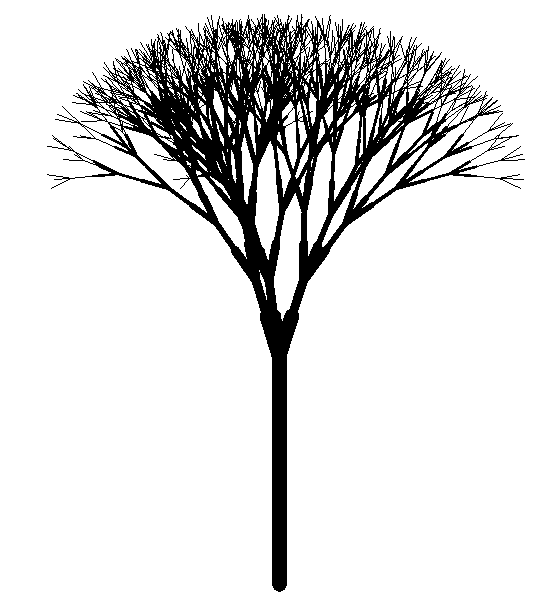
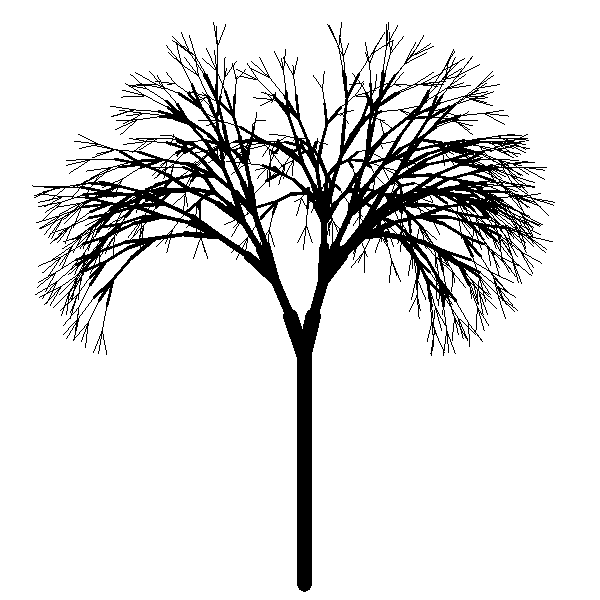
Implement ternary branching and tropism

Changed region(s): [[0.0618, 0.03, 0.9582, 0.6], [0.4945, 0.57, 0.5255, 0.99]]

diff --git a/parameters.py b/parameters.py
@@ -69,6 +69,10 @@ import numpy as np
 # a2 = -30
 # d = 137.5
 # wr = 0.707
+
+# T = None
+# e = 0
+
 # rules = {
 #     "A": lambda l, w: [("!", w), ("F", l), 
 #                        ("["), ("&", a0), ("B", l * r2, w * wr), ("]"),
@@ -103,28 +107,71 @@ import numpy as np
 
 
 
-###### Figure 2.7
-axiom = [("A", 100, 20)]
-r1 = 0.9
-r2 = 0.8
-a1 = 35
-a2 = 35
-wr = 0.707
+# ###### Figure 2.7
+# axiom = [("A", 100, 20)]
+# r1 = 0.9
+# r2 = 0.8
+# a1 = 35
+# a2 = 35
+# wr = 0.707
+# rules = {
+#     "A": lambda l, w: [("!", w), ("F", l), 
+#                        ("["), ("&", a1), ("B", l * r1, w * wr), ("]"),
+#                        ("/", 180), 
+#                        ("["), ("&", a2), ("B", l * r2, w * wr), ("]")],
+#     "B": lambda l, w: [("!", w), ("F", l), 
+#                        ("["), ("+", a1), ("$"), ("B", l * r1, w * wr), ("]"),
+#                        ("["), ("-", a2), ("$"), ("B", l * r2, w * wr), ("]")]
+# }
+# iterations = 10
+# delta = None
+# fileName = "outputs/l_system_tree_3d_Figure_2_7_d"
+
+# initX = 0
+# initY = -270
+# initZ = 0
+
+# imageWidth = 600
+# imageHeight = 600
+
+# penColor = [0, 0, 0]
+# penColorIncrementStep = None
+# penThickness = None
+# penThicknessDecrementStep = None
+# penStep = None
+
+# dimension = 3
+# parametric = True
+# hasLeaf = False
+
+
+
+###### Figure 2.8
+axiom = [("!", 1/2), ("F", 200/2), ("/", 45), ("A")] 
+d1 = 94.74
+d2 = 132.63
+a = 18.95
+lr = 1.109
+vr = 1.732
+T = np.array([0, -1, 0])
+e = 0.22
+
 rules = {
-    "A": lambda l, w: [("!", w), ("F", l), 
-                       ("["), ("&", a1), ("B", l * r1, w * wr), ("]"),
-                       ("/", 180), 
-                       ("["), ("&", a2), ("B", l * r2, w * wr), ("]")],
-    "B": lambda l, w: [("!", w), ("F", l), 
-                       ("["), ("+", a1), ("$"), ("B", l * r1, w * wr), ("]"),
-                       ("["), ("-", a2), ("$"), ("B", l * r2, w * wr), ("]")]
+    "A": lambda : [("!", vr/2), ("F", 50/2), 
+                   ("["), ("&", a), ("F", 50/2), ("A"), ("]"),
+                   ("/", d1),
+                   ("["), ("&", a), ("F", 50/2), ("A"), ("]"),
+                   ("/", d2),
+                   ("["), ("&", a), ("F", 50/2), ("A"), ("]")], 
+    "F": lambda step : [("F", step * lr)],
+    "!": lambda width : [("!", width * vr)]
 }
-iterations = 10
+iterations = 6
 delta = None
-fileName = "outputs/l_system_tree_3d_Figure_2_7_d"
+fileName = "outputs/l_system_tree_3d_Figure_2_8_a"
 
 initX = 0
-initY = -270
+initY = -280
 initZ = 0
 
 imageWidth = 600
@@ -139,43 +186,3 @@ penStep = None
 dimension = 3
 parametric = True
 hasLeaf = False
-
-
-
-# ###### Figure 2.8
-# axiom = [("!", 1/2), ("F", 200/2), ("/", 45/2), ("A")] 
-# d1 = 94.97
-# d2 = 132.63
-# a = 18.95
-# lr = 1.109
-# vr = 1.732
-# rules = {
-#     "A": lambda : [("!", vr/2), ("F", 50/2), 
-#                    ("["), ("&", a), ("F", 50/2), ("A"), ("]"),
-#                    ("/", d1),
-#                    ("["), ("&", a), ("F", 50/2), ("A"), ("]"),
-#                    ("/", d2),
-#                    ("["), ("&", a), ("F", 50/2), ("A"), ("]")], 
-#     "F": lambda step : [("F", step * lr)],
-#     "!": lambda width : [("!", width * vr)]
-# }
-# iterations = 6
-# delta = None
-# fileName = "outputs/l_system_tree_3d_Figure_2_8_a"
-
-# initX = 0
-# initY = -280
-# initZ = 0
-
-# imageWidth = 550
-# imageHeight = 600
-
-# penColor = [0, 0, 0]
-# penColorIncrementStep = None
-# penThickness = None
-# penThicknessDecrementStep = None
-# penStep = None
-
-# dimension = 3
-# parametric = True
-# hasLeaf = False

diff --git a/lsystem.py b/lsystem.py
@@ -86,7 +86,7 @@ class LSystem2D:
                 self.penThickness -= self.penThicknessDecrementStep
         
     def save(self):
-        self.screen.update()
+        # self.screen.update()
         # Convert the PostScript file to PNG
         self.screen.getcanvas().postscript(file=f"{self.saveFilePath}.eps")
         img = Image.open(f"{self.saveFilePath}.eps")
@@ -100,7 +100,7 @@ import networkx as nx
 import numpy as np
 
 class LSystem3D(LSystem2D):
-    def init3D(self, initX, initY, initZ):
+    def init3D(self, initX, initY, initZ, T, e):
         self.G = nx.DiGraph()
 
         # Initialize heading, left, and up directions
@@ -111,6 +111,10 @@ class LSystem3D(LSystem2D):
             ).T
 
         self.G.add_node("root", position=np.array([initX, initY, initZ]))
+
+        # Tropism parameters
+        self.T = T
+        self.e = e
     
     # Set up the roll, pitch, and yaw matrices. 
     # These rotation matrices are relative to the current H, L, U matrices. 
@@ -192,11 +196,11 @@ class LSystem3D(LSystem2D):
         # Draw trunk and branches
         for edge in self.G.edges:
             self.t.penup()
-            self.t.goto(-self.G.nodes[edge[0]]["position"][2], self.G.nodes[edge[0]]["position"][1])
+            self.t.goto(-self.G.nodes[edge[0]]["position"][0], self.G.nodes[edge[0]]["position"][1])
             self.t.pendown()
             self.t.pensize(self.G.edges[edge]["diameter"])
             self.t.pencolor(self.G.edges[edge]["color"])
-            self.t.goto(-self.G.nodes[edge[1]]["position"][2], self.G.nodes[edge[1]]["position"][1])
+            self.t.goto(-self.G.nodes[edge[1]]["position"][0], self.G.nodes[edge[1]]["position"][1])
         
         if self.hasLeaf:
             # Draw leaves
@@ -204,7 +208,7 @@ class LSystem3D(LSystem2D):
             for leaf_nodes, leaf_color in zip(self.leaves, self.leaf_colors):
                 self.t.begin_fill()
                 self.t.fillcolor([0.1, leaf_color[1] + 0.1, 0.1])
-                self.t.goto(leaf_nodes[0][00], leaf_nodes[0][1])
+                self.t.goto(leaf_nodes[0][0], leaf_nodes[0][1])
                 for i in range(1, len(leaf_nodes)):
                     self.t.goto(leaf_nodes[i][0], leaf_nodes[i][1])
                 self.t.goto(leaf_nodes[0][0], leaf_nodes[0][1])
@@ -251,6 +255,12 @@ class LSystem3DParametric(LSystem3D):
                 last_node = curr_node
                 node_i += 1
                 curr_node = f"node{node_i}"
+
+                # Tropism
+                HxT = np.cross(self.HLU[:, 0], self.T)
+                HxT_norm = np.linalg.norm(HxT)
+                if HxT_norm:
+                    self.HLU = self.R(HxT/HxT_norm, self.e * HxT_norm) @ self.HLU
             elif tuple_i[0] == 'f':
                 self.penStep = tuple_i[1]
                 self.G.add_node(curr_node, position=(

diff --git a/main.py b/main.py
@@ -25,7 +25,7 @@ if __name__ == "__main__":
                 penColor, penColorIncrementStep, 
                 penThickness, penThicknessDecrementStep, 
                 penStep, hasLeaf)
-        lsystem.init3D(initX, initY, initZ)
+        lsystem.init3D(initX, initY, initZ, T, e)
 
     lsystem.generate_lsystem()
     # print(lsystem.result)

diff --git a/README.md b/README.md
@@ -119,19 +119,23 @@ The plants images are generated using L-systems from [[1]](http://algorithmicbot
             <td><img src="outputs/l_system_tree_3d_Figure_2_7_d.png" alt="l_system_tree_3d_Figure_2_7_d" width="250"><p align="center">(d)</p></td>
         </tr>
     </table>
+    <b>Ternary Branching and Tropism (like a force, for example, wind or gravity) Tree</b>
+    <b>Parameters refer to Figure 2.8 in [1]</b>
     <table>
         <tr>
             <td><img src="outputs/l_system_tree_3d_Figure_2_8_a.png" alt="l_system_tree_3d_Figure_2_8_a" width="500"><p align="center">(a)</p></td>
             <td><img src="outputs/l_system_tree_3d_Figure_2_8_b.png" alt="l_system_tree_3d_Figure_2_8_b" width="500"><p align="center">(b)</p></td>
         </tr>
     </table>
+    There actually is some problems with my output images using Figure 2.8 parameters. But I will just let it go and move forward.
 </div>
-    <!-- </details> -->
 
 ## Usage
 Install the `PythonTurtle`, `NetworkX`, and `NumPy` libraries.
 
 Set L-system parameters in `parameters.py` and run `python main.py` in the terminal.
+
+Remark: there might be error (eg, variable not defined) when you run earlier parameters. But the last few 3D cases should be correct.
 
 ## Reference:
 [1] [The Algorithmic Beauty of Plants](http://algorithmicbotany.org/papers/abop/abop.pdf) - Przemyslaw Prusinkiewicz and Aristid Lindenmayer
